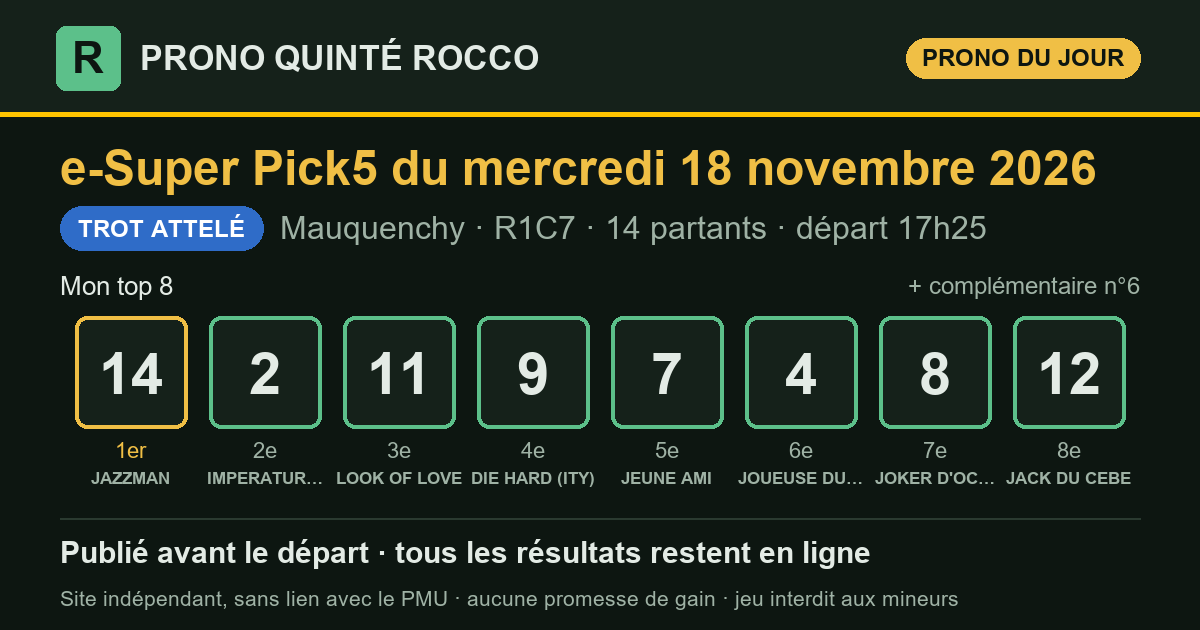
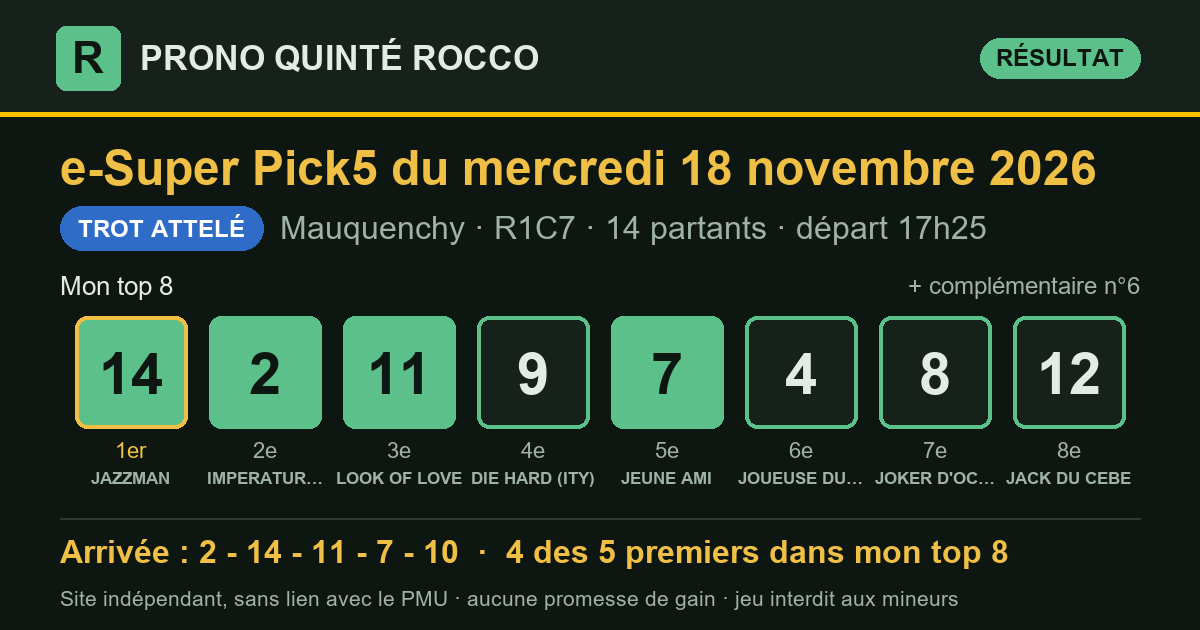
Résultat du Quinté+ 2026-11-18 Mauquenchy R1C1 — publié le 18/11/2026 17:41 (heure de Paris)

diff --git a/superpick5-partants.html b/superpick5-partants.html
@@ -3,7 +3,7 @@
 <head>
 <meta charset="utf-8">
 <meta name="viewport" content="width=device-width, initial-scale=1, viewport-fit=cover">
-<title>Partants du Super Pick 5 du mercredi 18 novembre 2026 : Prix du Pmu &quot;le Maintenon&quot; - Saint-Saens — Prono Quinté Rocco</title>
+<title>Partants du Super Pick 5 du jeudi 19 novembre 2026 : Prix de Castres — Prono Quinté Rocco</title>
 <meta name="description" content="Les partants du prochain Super Pick 5 (e-Super Pick5 ; programme officiel du PMU), avec le rang de chaque cheval dans mon prono et les liens vers les pronostics de la presse.">
 <link rel="canonical" href="https://prono-quinte-rocco.fr/superpick5-partants.html">
 <link rel="stylesheet" href="style.css?v=16feb868">
@@ -13,7 +13,7 @@
 <meta property="og:site_name" content="Prono Quinté Rocco">
 <meta property="og:locale" content="fr_FR">
 <meta property="og:type" content="website">
-<meta property="og:title" content="Partants du Super Pick 5 du mercredi 18 novembre 2026 : Prix du Pmu &quot;le Maintenon&quot; - Saint-Saens — Prono Quinté Rocco">
+<meta property="og:title" content="Partants du Super Pick 5 du jeudi 19 novembre 2026 : Prix de Castres — Prono Quinté Rocco">
 <meta property="og:description" content="Les partants du prochain Super Pick 5 (e-Super Pick5 ; programme officiel du PMU), avec le rang de chaque cheval dans mon prono et les liens vers les pronostics de la presse.">
 <meta property="og:url" content="https://prono-quinte-rocco.fr/superpick5-partants.html">
 <meta name="twitter:card" content="summary">
@@ -30,90 +30,100 @@
   <p class="surtitre">Programme officiel du PMU</p>
   <h1>Les partants du prochain <span class="nobr">e-Super Pick5</span></h1>
   <div class="fiche-course">
-    <p class="fiche-date">Mercredi 18 novembre 2026</p>
-    <div class="fiche-rc"><span class="pastille" title="Réunion 1">R1</span><span class="pastille" title="Course 7">C7</span><span class="fiche-nom">Prix du Pmu &quot;le Maintenon&quot; - Saint-Saens</span></div>
-    <p class="meta"><span class="type t-attele">Trot attelé</span>Mauquenchy · 2 850 m · 14 partants</p>
-    <p class="fiche-depart">Départ <b>17:25</b> <span>heure de Paris</span></p>
+    <p class="fiche-date">Jeudi 19 novembre 2026</p>
+    <div class="fiche-rc"><span class="pastille" title="Réunion 3">R3</span><span class="pastille" title="Course 4">C4</span><span class="fiche-nom">Prix de Castres</span></div>
+    <p class="meta"><span class="type t-attele">Trot attelé</span>Vincennes · 2 700 m · 16 partants</p>
+    <p class="fiche-depart">Départ <b>17:45</b> <span>heure de Paris</span></p>
   </div>
   <p class="surtitre">Les pronostics ailleurs sur le web</p>
-  <div class="liens"><a class="lien-ext" href="https://www.turfoo.fr/programmes-courses/261118/reunion1-mauquenchy/course7-prix-du-pmu/pronostics-presse/" rel="noopener" target="_blank"><b>Les pronostics de la presse →</b><span>sur Turfoo (site extérieur)</span></a><a class="lien-ext" href="https://www.geny.com/programme/2026-11-18" rel="noopener" target="_blank"><b>Partants et pronostics →</b><span>programme du jour sur Geny (site extérieur)</span></a></div>
+  <div class="liens"><a class="lien-ext" href="https://www.turfoo.fr/programmes-courses/261119/reunion3-vincennes/course4-prix-de-castres/pronostics-presse/" rel="noopener" target="_blank"><b>Les pronostics de la presse →</b><span>sur Turfoo (site extérieur)</span></a><a class="lien-ext" href="https://www.geny.com/programme/2026-11-19" rel="noopener" target="_blank"><b>Partants et pronostics →</b><span>programme du jour sur Geny (site extérieur)</span></a></div>
   <div class="liste-boite"><table class="liste-partants">
     <thead><tr><th>N°</th><th>Cheval</th><th class="cote"><span class="long">Cote du matin</span><span class="court">Cote</span></th>
     <th class="ia"><span class="long">Mon prono</span><span class="court">Prono</span></th></tr></thead>
     <tbody><tr>
   <td><span class="tapis petit">1</span></td>
-  <td><span class="cheval">TOSCANA SOUTHWIND</span><span class="sous">P.Y. VERVA · H.E. BONDO</span></td>
-  <td class="cote num">16,0</td>
+  <td><span class="cheval">MILO JO</span><span class="sous">B. VALLETTE · B. VALLETTE</span></td>
+  <td class="cote num">—</td>
   <td class="ia">—</td>
 </tr><tr>
   <td><span class="tapis petit">2</span></td>
-  <td><span class="cheval">IMPERATUR AM</span><span class="sous">G. GELORMINI · H.E. BONDO</span></td>
-  <td class="cote num">5,8</td>
-  <td class="ia"><span class="etat place">2<sup>e</sup></span></td>
+  <td><span class="cheval">MY HERO</span><span class="sous">A. BARRIER · Sté. Ent. Grégory THOREL</span></td>
+  <td class="cote num">—</td>
+  <td class="ia">—</td>
 </tr><tr>
   <td><span class="tapis petit">3</span></td>
-  <td><span class="cheval">LORENZO BOKO</span><span class="sous">Y. LEBOURGEOIS · Pierrick LE MOEL</span></td>
-  <td class="cote num">31,0</td>
+  <td><span class="cheval">MANIGOD D&#x27;ELLE</span><span class="sous">B. ROCHARD · TH. RAFFEGEAU</span></td>
+  <td class="cote num">—</td>
   <td class="ia">—</td>
 </tr><tr>
   <td><span class="tapis petit">4</span></td>
-  <td><span class="cheval">JOUEUSE DU MIREL</span><span class="sous">F. OUVRIE · Mme Suzanne VACHET</span></td>
-  <td class="cote num">24,0</td>
-  <td class="ia"><span class="etat place">6<sup>e</sup></span></td>
+  <td><span class="cheval">MIL&#x27;S DE BAILLE</span><span class="sous">M. MOTTIER · M. MOTTIER</span></td>
+  <td class="cote num">—</td>
+  <td class="ia">—</td>
 </tr><tr>
   <td><span class="tapis petit">5</span></td>
-  <td><span class="cheval">IDEAL MOSSA</span><span class="sous">J. VANMEERBECK · Sté. Ent. Jonathan VANMEERBECK</span></td>
-  <td class="cote num">52,0</td>
+  <td><span class="cheval">MYSTIC HAUFOR</span><span class="sous">D. BONNE · CH. BIGEON</span></td>
+  <td class="cote num">—</td>
   <td class="ia">—</td>
 </tr><tr>
   <td><span class="tapis petit">6</span></td>
-  <td><span class="cheval">KASH KEEPER</span><span class="sous">M. MOTTIER · David PERSSON</span></td>
-  <td class="cote num">20,0</td>
-  <td class="ia"><span class="etat place">compl.</span></td>
+  <td><span class="cheval">MAESTRO D&#x27;ELFE</span><span class="sous">D. BROHIER · D. BROHIER</span></td>
+  <td class="cote num">—</td>
+  <td class="ia">—</td>
 </tr><tr>
   <td><span class="tapis petit">7</span></td>
-  <td><span class="cheval">JEUNE AMI</span><span class="sous">P.PH. PLOQUIN · H. VAN DEN HENDE</span></td>
-  <td class="cote num">16,0</td>
-  <td class="ia"><span class="etat place">5<sup>e</sup></span></td>
+  <td><span class="cheval">MALANDRINO</span><span class="sous">ETIENNE DUBOIS · Sté. Ent. Etienne DUBOIS</span></td>
+  <td class="cote num">—</td>
+  <td class="ia">—</td>
 </tr><tr>
   <td><span class="tapis petit">8</span></td>
-  <td><span class="cheval">JOKER D&#x27;OCCAGNES</span><span class="sous">TH. DROMIGNY · G. CURENS</span></td>
-  <td class="cote num">18,0</td>
-  <td class="ia"><span class="etat place">7<sup>e</sup></span></td>
+  <td><span class="cheval">MYTHE D&#x27;ERABLE</span><span class="sous">D. THOMAIN · CL. THOMAIN</span></td>
+  <td class="cote num">—</td>
+  <td class="ia">—</td>
 </tr><tr>
   <td><span class="tapis petit">9</span></td>
-  <td><span class="cheval">DIE HARD (ITY)</span><span class="sous">F. LAGADEUC · P.L. DESAUNETTE</span></td>
-  <td class="cote num">12,0</td>
-  <td class="ia"><span class="etat place">4<sup>e</sup></span></td>
+  <td><span class="cheval">MIMI DE VAL</span><span class="sous">E. RAFFIN · Ch. DREUX</span></td>
+  <td class="cote num">—</td>
+  <td class="ia">—</td>
 </tr><tr>
   <td><span class="tapis petit">10</span></td>
-  <td><span class="cheval">JACK L&#x27;EVENTREUR</span><span class="sous">CEDRIC TERRY · F. TERRY</span></td>
-  <td class="cote num">20,0</td>
+  <td><span class="cheval">MY LOVE JULMA</span><span class="sous">M. ABRIVARD · Sté. Ent. Grégory THOREL</span></td>
+  <td class="cote num">—</td>
   <td class="ia">—</td>
 </tr><tr>
   <td><span class="tapis petit">11</span></td>
-  <td><span class="cheval">LOOK OF LOVE</span><span class="sous">J. VAN DEN PUTTE JR. · Mme Celestine CORTY</span></td>
-  <td class="cote num">11,0</td>
-  <td class="ia"><span class="etat place">3<sup>e</sup></span></td>
+  <td><span class="cheval">MAJOR DE LA BASLE</span><span class="sous">P.Y. VERVA · Ph.E. TRIBLE</span></td>
+  <td class="cote num">—</td>
+  <td class="ia">—</td>
 </tr><tr>
   <td><span class="tapis petit">12</span></td>
-  <td><span class="cheval">JACK DU CEBE</span><span class="sous">A. CHARRIE · K. LEBLANC</span></td>
-  <td class="cote num">58,0</td>
-  <td class="ia"><span class="etat place">8<sup>e</sup></span></td>
+  <td><span class="cheval">MARIO DE LOU</span><span class="sous">JULIEN RAFFESTIN · Julien RAFFESTIN</span></td>
+  <td class="cote num">—</td>
+  <td class="ia">—</td>
 </tr><tr>
   <td><span class="tapis petit">13</span></td>
-  <td><span class="cheval">ICI PARIS EFJI</span><span class="sous">J. TRAVERS · St. PROVOOST</span></td>
-  <td class="cote num">24,0</td>
+  <td><span class="cheval">MILLESIME DARLING</span><span class="sous">K. VANDERSCHELDEN · Sté. Ent. Kévin VANDERSCHELDEN</span></td>
+  <td class="cote num">—</td>
   <td class="ia">—</td>
 </tr><tr>
   <td><span class="tapis petit">14</span></td>
-  <td><span class="cheval">JAZZMAN</span><span class="sous">E. RAFFIN · J.PH. DUBOIS</span></td>
-  <td class="cote num">2,5</td>
-  <td class="ia"><span class="etat place">1<sup>er</sup></span></td>
+  <td><span class="cheval">MILLESIME STAR</span><span class="sous">P.PH. PLOQUIN · M. IZZO</span></td>
+  <td class="cote num">—</td>
+  <td class="ia">—</td>
+</tr><tr>
+  <td><span class="tapis petit">15</span></td>
+  <td><span class="cheval">MENJOY QUICK</span><span class="sous">A. LAMY · TH. RAFFEGEAU</span></td>
+  <td class="cote num">—</td>
+  <td class="ia">—</td>
+</tr><tr>
+  <td><span class="tapis petit">16</span></td>
+  <td><span class="cheval">MILTON DU CHATELET</span><span class="sous">A. COLLETTE · J.F. POPOT</span></td>
+  <td class="cote num">—</td>
+  <td class="ia">—</td>
 </tr></tbody>
   </table></div>
-  <p class="meta">La colonne « Mon prono » donne le rang de chaque cheval dans mon top 8, tel qu&#x27;il est publié sur ce site. Sous chaque cheval : driver · entraîneur. Partants et cotes : programme
-  officiel du PMU, lu le 18/11 à 14:11 (heure de Paris). NP = non-partant.</p>
+  <p class="meta">Mon prono de cette course sera publié le matin de la course, avant le départ. Sous chaque cheval : driver · entraîneur. Partants et cotes : programme
+  officiel du PMU, lu le 18/11 à 17:41 (heure de Paris). NP = non-partant.</p>
 </section>
 </main>
 <footer class="pied">

diff --git a/superpick5.html b/superpick5.html
@@ -16,7 +16,7 @@
 <meta property="og:title" content="Pronostic Super Pick 5 du mercredi 18 novembre 2026 : Prix du Pmu &quot;le Maintenon&quot; - Saint-Saens — Prono Quinté Rocco">
 <meta property="og:description" content="Pronostic Super Pick 5 (e-Super Pick5) du jour : mon top 8, publié avant le départ, puis tous les résultats et le rendement réel.">
 <meta property="og:url" content="https://prono-quinte-rocco.fr/superpick5.html">
-<meta property="og:image" content="https://prono-quinte-rocco.fr/partage/sp5-2026-11-18.png?v=239bd786">
+<meta property="og:image" content="https://prono-quinte-rocco.fr/partage/sp5-2026-11-18.png?v=7b67d249">
 <meta property="og:image:type" content="image/png">
 <meta property="og:image:width" content="1200">
 <meta property="og:image:height" content="630">
@@ -32,7 +32,7 @@
 <div class="jeux j-sp5" role="navigation" aria-label="Choix du jeu"><a class="jeu jeu-quinte" href="index.html">Quinté+</a><a class="jeu jeu-sp5 actif" href="superpick5.html" aria-current="true">e-Super Pick5<small>entre 17 h et 19 h</small></a></div>
 <main>
 <section class="une" aria-labelledby="t-jour">
-  <p class="surtitre">e-Super Pick5 du jour</p>
+  <p class="surtitre">Dernier e-Super Pick5</p>
   <h1 id="t-jour">Le prono du <span class="nobr">e-Super Pick5</span>, résultats compris</h1>
   <p class="chapo">Le e-Super Pick5 est le nouveau pari du PMU : chaque jour, une course
   dont il faut trouver les cinq premiers. Je l'étudie comme le Quinté+, avec le logiciel
@@ -44,10 +44,13 @@
   <p class="meta">Prix du Pmu &quot;le Maintenon&quot; - Saint-Saens · Mauquenchy · <strong>R1C7</strong> · 14 partants · <span class="lisib">lisibilité <span class="note" aria-label="note 2 sur 5" title="lisibilité 2/5 : course ouverte"><i class="on"></i><i class="on"></i><i class=""></i><i class=""></i><i class=""></i></span> 2/5</span></p>
   <div class="zone-prono">
     <h3 class="zone-titre">Mon top 8</h3>
-    <ol class="partants" aria-label="Mon top 8"><li><span class="rang">1<sup>er</sup></span><span class="tapis ">14</span><span class="nom">JAZZMAN</span></li><li><span class="rang">2<sup>e</sup></span><span class="tapis ">2</span><span class="nom">IMPERATUR AM</span></li><li><span class="rang">3<sup>e</sup></span><span class="tapis ">11</span><span class="nom">LOOK OF LOVE</span></li><li><span class="rang">4<sup>e</sup></span><span class="tapis ">9</span><span class="nom">DIE HARD (ITY)</span></li><li><span class="rang">5<sup>e</sup></span><span class="tapis ">7</span><span class="nom">JEUNE AMI</span></li><li><span class="rang">6<sup>e</sup></span><span class="tapis ">4</span><span class="nom">JOUEUSE DU MIREL</span></li><li><span class="rang">7<sup>e</sup></span><span class="tapis ">8</span><span class="nom">JOKER D&#x27;OCCAGNES</span></li><li><span class="rang">8<sup>e</sup></span><span class="tapis ">12</span><span class="nom">JACK DU CEBE</span></li><li><span class="rang">compl.</span><span class="tapis creux">6</span><span class="nom">KASH KEEPER</span></li></ol>
+    <ol class="partants" aria-label="Mon top 8"><li><span class="rang">1<sup>er</sup></span><span class="tapis plein">14</span><span class="nom">JAZZMAN</span></li><li><span class="rang">2<sup>e</sup></span><span class="tapis plein">2</span><span class="nom">IMPERATUR AM</span></li><li><span class="rang">3<sup>e</sup></span><span class="tapis plein">11</span><span class="nom">LOOK OF LOVE</span></li><li><span class="rang">4<sup>e</sup></span><span class="tapis ">9</span><span class="nom">DIE HARD (ITY)</span></li><li><span class="rang">5<sup>e</sup></span><span class="tapis plein">7</span><span class="nom">JEUNE AMI</span></li><li><span class="rang">6<sup>e</sup></span><span class="tapis ">4</span><span class="nom">JOUEUSE DU MIREL</span></li><li><span class="rang">7<sup>e</sup></span><span class="tapis ">8</span><span class="nom">JOKER D&#x27;OCCAGNES</span></li><li><span class="rang">8<sup>e</sup></span><span class="tapis ">12</span><span class="nom">JACK DU CEBE</span></li><li><span class="rang">compl.</span><span class="tapis creux">6</span><span class="nom">KASH KEEPER</span></li></ol>
     <div class="pied-carte"><span>Analysé le 18/11 à 09:45 · en ligne le 18/11 à 09:47 · départ à 17:25 (heure de Paris)</span><span><a href="superpick5/2026-11-18.html">Détail de la course</a></span></div>
   </div>
-  <div class="zone-arrivee attente"><p>L'arrivée officielle s'affichera ici après la course.</p></div>
+  <div class="zone-arrivee">
+    <div class="zone-tete"><h3 class="zone-titre">Arrivée officielle</h3><span class="etat place">4 des 5 premiers dans mon top 8</span><span class="etat place">mon 1er (n°14) : placé</span></div>
+    <ol class="partants" aria-label="Arrivée officielle"><li><span class="rang">1<sup>er</sup></span><span class="tapis plein">2</span><span class="nom">IMPERATUR AM</span></li><li><span class="rang">2<sup>e</sup></span><span class="tapis plein">14</span><span class="nom">JAZZMAN</span></li><li><span class="rang">3<sup>e</sup></span><span class="tapis plein">11</span><span class="nom">LOOK OF LOVE</span></li><li><span class="rang">4<sup>e</sup></span><span class="tapis plein">7</span><span class="nom">JEUNE AMI</span></li><li><span class="rang">5<sup>e</sup></span><span class="tapis hors">10</span><span class="nom">JACK L&#x27;EVENTREUR</span></li></ol>
+  </div>
 </article>
 </section>
 <section class="suivre" aria-label="Suivre et soutenir">
@@ -77,9 +80,9 @@
 </section>
 <section class="bilan" aria-labelledby="t-bilan">
   <h2 id="t-bilan">Mon bilan depuis le 5 novembre 2026</h2>
-  <div class="tableau chiffres"><div class="case"><span class="gros ">82 %</span><span class="lib">des arrivants trouvés dans mon top 8</span><span class="ref">un top 8 tiré au hasard : 55 %</span></div><div class="case"><span class="gros ">82 %</span><span class="lib">des gagnants présents dans mon top 8</span><span class="ref"></span></div><div class="case"><span class="gros ">55 %</span><span class="lib">mon 1er placé</span><span class="ref">sur 11 Super Pick5</span></div><div class="case"><span class="gros perte">0,94 €</span><span class="lib">rendus pour 1 € joué placé sur mon 1er</span><span class="ref">rapports officiels PMU</span></div><div class="case"><span class="gros gain">1,24 €</span><span class="lib">rendus pour 1 € joué en e-Super Pick5 combiné sur mon top 8</span><span class="ref">56 combinaisons, rapports PMU.fr, sur 11 Super Pick5</span></div></div>
+  <div class="tableau chiffres"><div class="case"><span class="gros ">82 %</span><span class="lib">des arrivants trouvés dans mon top 8</span><span class="ref">un top 8 tiré au hasard : 55 %</span></div><div class="case"><span class="gros ">83 %</span><span class="lib">des gagnants présents dans mon top 8</span><span class="ref"></span></div><div class="case"><span class="gros ">55 %</span><span class="lib">mon 1er placé</span><span class="ref">sur 11 Super Pick5</span></div><div class="case"><span class="gros perte">0,94 €</span><span class="lib">rendus pour 1 € joué placé sur mon 1er</span><span class="ref">rapports officiels PMU</span></div><div class="case"><span class="gros gain">1,24 €</span><span class="lib">rendus pour 1 € joué en e-Super Pick5 combiné sur mon top 8</span><span class="ref">56 combinaisons, rapports PMU.fr, sur 11 Super Pick5</span></div></div>
   <p class="avertissement">Moins de 1 € rendu pour 1 € joué : suivre mon prono à la lettre fait <strong>perdre de l'argent</strong> sur cette période. Il sert à analyser une course, pas à promettre un gain.</p>
-  <p class="avertissement">Sur 11 courses seulement : beaucoup trop peu pour en tirer quoi que ce soit.</p>
+  <p class="avertissement">Sur 12 courses seulement : beaucoup trop peu pour en tirer quoi que ce soit.</p>
 </section>
 <section class="texte en-bref" aria-labelledby="t-bref">
   <h2 id="t-bref">Le e-Super Pick5 en bref</h2>

diff --git a/superpick5/2026-11-18.html b/superpick5/2026-11-18.html
@@ -16,7 +16,7 @@
 <meta property="og:title" content="Pronostic Super Pick 5 du mercredi 18 novembre 2026 : Prix du Pmu &quot;le Maintenon&quot; - Saint-Saens à Mauquenchy — Prono Quinté Rocco">
 <meta property="og:description" content="Prono Super Pick 5 (e-Super Pick5) du mercredi 18 novembre 2026 (Prix du Pmu &quot;le Maintenon&quot; - Saint-Saens, Mauquenchy) : mon top 8, l&#x27;arrivée officielle et les rapports PMU.fr.">
 <meta property="og:url" content="https://prono-quinte-rocco.fr/superpick5/2026-11-18.html">
-<meta property="og:image" content="https://prono-quinte-rocco.fr/partage/sp5-2026-11-18.png?v=239bd786">
+<meta property="og:image" content="https://prono-quinte-rocco.fr/partage/sp5-2026-11-18.png?v=7b67d249">
 <meta property="og:image:type" content="image/png">
 <meta property="og:image:width" content="1200">
 <meta property="og:image:height" content="630">
@@ -36,15 +36,25 @@
   <h1>Pronostic <span class="nobr">e-Super Pick5</span> du mercredi 18 novembre 2026</h1>
   <p class="chapo">Prix du Pmu &quot;le Maintenon&quot; - Saint-Saens · Mauquenchy · R1C7 · Attelé · 14 partants</p>
   <article class="carte-course">
-  <div class="tete"><h2>Mon prono</h2><span class="type t-attele">Trot attelé</span></div>
+  <div class="tete"><h2>Mon prono et l&#x27;arrivée officielle</h2><span class="type t-attele">Trot attelé</span></div>
   <p class="meta">Prix du Pmu &quot;le Maintenon&quot; - Saint-Saens · Mauquenchy · <strong>R1C7</strong> · 14 partants · <span class="lisib">lisibilité <span class="note" aria-label="note 2 sur 5" title="lisibilité 2/5 : course ouverte"><i class="on"></i><i class="on"></i><i class=""></i><i class=""></i><i class=""></i></span> 2/5</span></p>
   <div class="zone-prono">
     <h3 class="zone-titre">Mon top 8</h3>
-    <ol class="partants" aria-label="Mon top 8"><li><span class="rang">1<sup>er</sup></span><span class="tapis ">14</span><span class="nom">JAZZMAN</span></li><li><span class="rang">2<sup>e</sup></span><span class="tapis ">2</span><span class="nom">IMPERATUR AM</span></li><li><span class="rang">3<sup>e</sup></span><span class="tapis ">11</span><span class="nom">LOOK OF LOVE</span></li><li><span class="rang">4<sup>e</sup></span><span class="tapis ">9</span><span class="nom">DIE HARD (ITY)</span></li><li><span class="rang">5<sup>e</sup></span><span class="tapis ">7</span><span class="nom">JEUNE AMI</span></li><li><span class="rang">6<sup>e</sup></span><span class="tapis ">4</span><span class="nom">JOUEUSE DU MIREL</span></li><li><span class="rang">7<sup>e</sup></span><span class="tapis ">8</span><span class="nom">JOKER D&#x27;OCCAGNES</span></li><li><span class="rang">8<sup>e</sup></span><span class="tapis ">12</span><span class="nom">JACK DU CEBE</span></li><li><span class="rang">compl.</span><span class="tapis creux">6</span><span class="nom">KASH KEEPER</span></li></ol>
+    <ol class="partants" aria-label="Mon top 8"><li><span class="rang">1<sup>er</sup></span><span class="tapis plein">14</span><span class="nom">JAZZMAN</span></li><li><span class="rang">2<sup>e</sup></span><span class="tapis plein">2</span><span class="nom">IMPERATUR AM</span></li><li><span class="rang">3<sup>e</sup></span><span class="tapis plein">11</span><span class="nom">LOOK OF LOVE</span></li><li><span class="rang">4<sup>e</sup></span><span class="tapis ">9</span><span class="nom">DIE HARD (ITY)</span></li><li><span class="rang">5<sup>e</sup></span><span class="tapis plein">7</span><span class="nom">JEUNE AMI</span></li><li><span class="rang">6<sup>e</sup></span><span class="tapis ">4</span><span class="nom">JOUEUSE DU MIREL</span></li><li><span class="rang">7<sup>e</sup></span><span class="tapis ">8</span><span class="nom">JOKER D&#x27;OCCAGNES</span></li><li><span class="rang">8<sup>e</sup></span><span class="tapis ">12</span><span class="nom">JACK DU CEBE</span></li><li><span class="rang">compl.</span><span class="tapis creux">6</span><span class="nom">KASH KEEPER</span></li></ol>
     <div class="pied-carte"><span>Analysé le 18/11 à 09:45 · en ligne le 18/11 à 09:47 · départ à 17:25 (heure de Paris)</span><span></span></div>
   </div>
-  <div class="zone-arrivee attente"><p>L'arrivée officielle s'affichera ici après la course.</p></div>
+  <div class="zone-arrivee">
+    <div class="zone-tete"><h3 class="zone-titre">Arrivée officielle</h3><span class="etat place">4 des 5 premiers dans mon top 8</span><span class="etat place">mon 1er (n°14) : placé</span></div>
+    <ol class="partants" aria-label="Arrivée officielle"><li><span class="rang">1<sup>er</sup></span><span class="tapis plein">2</span><span class="nom">IMPERATUR AM</span></li><li><span class="rang">2<sup>e</sup></span><span class="tapis plein">14</span><span class="nom">JAZZMAN</span></li><li><span class="rang">3<sup>e</sup></span><span class="tapis plein">11</span><span class="nom">LOOK OF LOVE</span></li><li><span class="rang">4<sup>e</sup></span><span class="tapis plein">7</span><span class="nom">JEUNE AMI</span></li><li><span class="rang">5<sup>e</sup></span><span class="tapis hors">10</span><span class="nom">JACK L&#x27;EVENTREUR</span></li></ol>
+  </div>
 </article>
+<section class="carte-course rapports" aria-labelledby="t-rap">
+  <div class="tete"><h2 id="t-rap">Les rapports</h2></div>
+  <div class="deux">
+    <div><h3>Ce qu'aurait rendu mon prono</h3><dl class="kv"><dt>1 € placé sur mon 1er (n°14)</dt><dd>rapport manquant</dd><dt>1 € gagnant sur mon 1er</dt><dd>rapport manquant</dd></dl></div>
+    <div><h3>Rapports officiels</h3><dl class="kv"><dt>rapports indisponibles</dt><dd></dd></dl></div>
+  </div>
+</section>
 </section>
 </main>
 <footer class="pied">

diff --git a/superpick5-resultats.html b/superpick5-resultats.html
@@ -52,12 +52,12 @@
     <th colspan="4" class="res g-res">Le résultat officiel</th></tr>
     <tr><th>Date</th><th>Course</th><th>Top 8</th><th class="c-lis">Lisibilité</th><th class="res c-arr">Arrivée</th>
     <th class="res">Trouvés</th><th class="res">Mon 1er</th><th class="res mont">Super Pick5 top 8<br><small>(mise 112 €)</small></th></tr></thead>
-    <tbody><tr class="attente">
+    <tbody><tr>
   <td class="c-date"><a href="superpick5/2026-11-18.html">18/11</a></td>
   <td class="c-course">Mauquenchy<br><span class="meta">R1C7</span><span class="type t-attele petit">Attelé</span></td>
-  <td class="c-top8" data-label="Mon top 8"><div class="rangee"><span class="tapis petit">14</span><span class="tapis petit">2</span><span class="tapis petit">11</span><span class="tapis petit">9</span><span class="tapis petit">7</span><span class="tapis petit">4</span><span class="tapis petit">8</span><span class="tapis petit">12</span></div></td>
+  <td class="c-top8" data-label="Mon top 8"><div class="rangee"><span class="tapis plein petit">14</span><span class="tapis plein petit">2</span><span class="tapis plein petit">11</span><span class="tapis petit">9</span><span class="tapis plein petit">7</span><span class="tapis petit">4</span><span class="tapis petit">8</span><span class="tapis petit">12</span></div></td>
   <td class="c-lis" data-label="Lisibilité"><span class="note" aria-label="note 2 sur 5" title="lisibilité 2/5 : course ouverte"><i class="on"></i><i class="on"></i><i class=""></i><i class=""></i><i class=""></i></span> 2/5</td>
-  <td class="res c-arr" data-label="Arrivée"><span class="etat attente">en attente</span></td><td class="res num c-trouves" data-label="Trouvés">—</td><td class="res c-premier" data-label="Mon 1er"><span class="etat attente">—</span></td><td class="res mont c-mont" data-label="Super Pick5 top 8 (mise 112 €)">—</td>
+  <td class="res c-arr" data-label="Arrivée"><div class="rangee"><span class="tapis plein petit" title="1er">2</span><span class="tapis plein petit" title="2e">14</span><span class="tapis plein petit" title="3e">11</span><span class="tapis plein petit" title="4e">7</span><span class="tapis hors petit" title="5e">10</span></div></td><td class="res num c-trouves" data-label="Trouvés"><span class="etat place" title="4 des 5 premiers sont dans mon top 8">4/5</span></td><td class="res c-premier" data-label="Mon 1er"><span class="etat place">placé</span></td><td class="res mont c-mont" data-label="Super Pick5 top 8 (mise 112 €)">—</td>
 </tr><tr>
   <td class="c-date"><a href="superpick5/2026-11-17.html">17/11</a></td>
   <td class="c-course">Vincennes<br><span class="meta">R3C7</span><span class="type t-monte petit">Monté</span></td>
@@ -139,9 +139,9 @@
 </section>
 <section class="bilan" aria-labelledby="t-bilan">
   <h2 id="t-bilan">Mon bilan depuis le 5 novembre 2026</h2>
-  <div class="tableau chiffres"><div class="case"><span class="gros ">82 %</span><span class="lib">des arrivants trouvés dans mon top 8</span><span class="ref">un top 8 tiré au hasard : 55 %</span></div><div class="case"><span class="gros ">82 %</span><span class="lib">des gagnants présents dans mon top 8</span><span class="ref"></span></div><div class="case"><span class="gros ">55 %</span><span class="lib">mon 1er placé</span><span class="ref">sur 11 Super Pick5</span></div><div class="case"><span class="gros perte">0,94 €</span><span class="lib">rendus pour 1 € joué placé sur mon 1er</span><span class="ref">rapports officiels PMU</span></div><div class="case"><span class="gros gain">1,24 €</span><span class="lib">rendus pour 1 € joué en e-Super Pick5 combiné sur mon top 8</span><span class="ref">56 combinaisons, rapports PMU.fr, sur 11 Super Pick5</span></div></div>
+  <div class="tableau chiffres"><div class="case"><span class="gros ">82 %</span><span class="lib">des arrivants trouvés dans mon top 8</span><span class="ref">un top 8 tiré au hasard : 55 %</span></div><div class="case"><span class="gros ">83 %</span><span class="lib">des gagnants présents dans mon top 8</span><span class="ref"></span></div><div class="case"><span class="gros ">55 %</span><span class="lib">mon 1er placé</span><span class="ref">sur 11 Super Pick5</span></div><div class="case"><span class="gros perte">0,94 €</span><span class="lib">rendus pour 1 € joué placé sur mon 1er</span><span class="ref">rapports officiels PMU</span></div><div class="case"><span class="gros gain">1,24 €</span><span class="lib">rendus pour 1 € joué en e-Super Pick5 combiné sur mon top 8</span><span class="ref">56 combinaisons, rapports PMU.fr, sur 11 Super Pick5</span></div></div>
   <p class="avertissement">Moins de 1 € rendu pour 1 € joué : suivre mon prono à la lettre fait <strong>perdre de l'argent</strong> sur cette période. Il sert à analyser une course, pas à promettre un gain.</p>
-  <p class="avertissement">Sur 11 courses seulement : beaucoup trop peu pour en tirer quoi que ce soit.</p>
+  <p class="avertissement">Sur 12 courses seulement : beaucoup trop peu pour en tirer quoi que ce soit.</p>
 </section>
 </main>
 <footer class="pied">

diff --git a/quinte/2026-11-18.html b/quinte/2026-11-18.html
@@ -52,7 +52,7 @@
   <div class="tete"><h2 id="t-rap">Les rapports</h2></div>
   <div class="deux">
     <div><h3>Ce qu'aurait rendu mon prono</h3><dl class="kv"><dt>1 € placé sur mon 1er (n°13)</dt><dd class="perte">0,00 €</dd><dt>1 € gagnant sur mon 1er</dt><dd class="perte">0,00 €</dd><dt>Quinté+ combiné sur mon top 8 (mise 112 €)</dt><dd class="gain"><span class="etat top somme">180,40 €</span></dd><dd class="dont">dont Désordre × 1, Bonus 4sur5 × 15, Bonus 3 × 3</dd></dl></div>
-    <div><h3>Rapports officiels</h3><dl class="kv"><dt>e-Quinté+ Ordre (2 €)</dt><dd>12 307,00 €</dd><dt>e-Quinté+ Désordre (2 €)</dt><dd>102,40 €</dd><dt>e-Bonus 4sur5 (2 €)</dt><dd>4,40 €</dd><dt>e-Bonus 3 (2 €)</dt><dd>4,00 €</dd></dl></div>
+    <div><h3>Rapports officiels</h3><dl class="kv"><dt>e-Quinté+ Ordre (2 €)</dt><dd>12 307,00 €</dd><dt>e-Quinté+ Désordre (2 €)</dt><dd>102,40 €</dd><dt>e-Bonus 4sur5 (2 €)</dt><dd>4,40 €</dd><dt>e-Bonus 3 (2 €)</dt><dd>4,00 €</dd><dt>Tiercé Ordre (1 €)</dt><dd>739,50 €</dd><dt>Tiercé Désordre (1 €)</dt><dd>105,10 €</dd></dl></div>
   </div>
 </section>
 </section>

diff --git a/index.html b/index.html
@@ -16,7 +16,7 @@
 <meta property="og:title" content="Pronostics Quinté+ et Super Pick 5 du mercredi 18 novembre 2026 — Prono Quinté Rocco">
 <meta property="og:description" content="Pronostics Quinté+ (Grand National du Trot) et Super Pick 5 (Prix du Pmu &quot;le Maintenon&quot; - Saint-Saens) du jour : mes top 8, publiés avant le départ, puis tous les résultats et le rendement réel.">
 <meta property="og:url" content="https://prono-quinte-rocco.fr/">
-<meta property="og:image" content="https://prono-quinte-rocco.fr/partage/jour-2026-11-18.png?v=7072b34b">
+<meta property="og:image" content="https://prono-quinte-rocco.fr/partage/jour-2026-11-18.png?v=62fd719b">
 <meta property="og:image:type" content="image/png">
 <meta property="og:image:width" content="1200">
 <meta property="og:image:height" content="630">

diff --git a/partants.html b/partants.html
@@ -123,7 +123,7 @@
 </tr></tbody>
   </table></div>
   <p class="meta">Mon prono de cette course sera publié le matin de la course, avant le départ. Sous chaque cheval : jockey · entraîneur. Partants et cotes : programme
-  officiel du PMU, lu le 18/11 à 14:11 (heure de Paris). NP = non-partant.</p>
+  officiel du PMU, lu le 18/11 à 17:41 (heure de Paris). NP = non-partant.</p>
 </section>
 </main>
 <footer class="pied">
